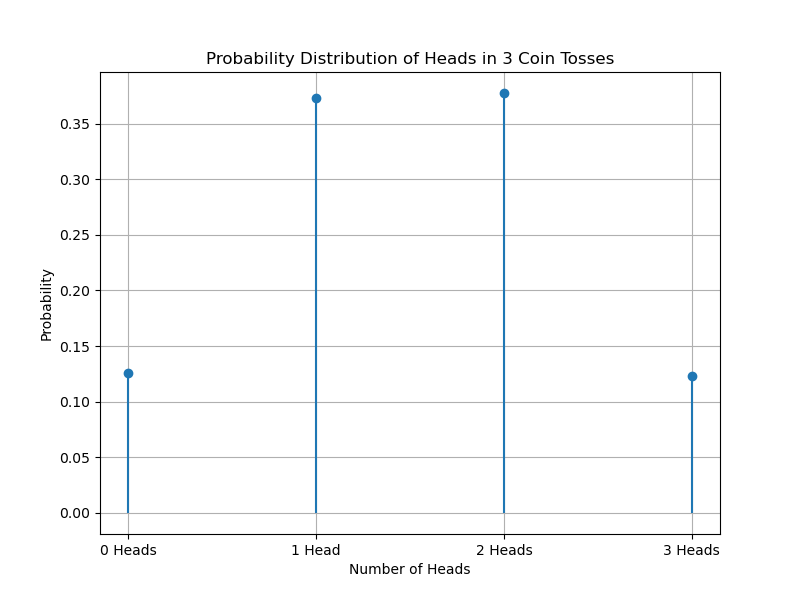
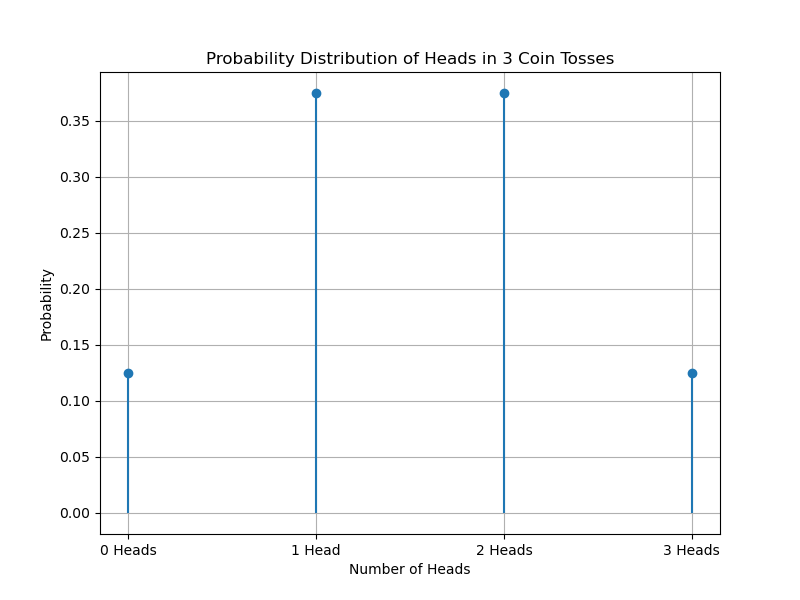
Changes

diff --git a/3.8.3/codes/main.c b/3.8.3/codes/main.c
@@ -1,64 +1,45 @@
 #include <stdio.h>
 #include <stdlib.h>
-#include <time.h>
+#include <math.h>
 
-// Function to simulate three coin tosses and compute probabilities
-void simulate_three_coin_toss(int n, double *probabilities, double *cdf) {
-    int outcomes[4] = {0}; // Counts for 0, 1, 2, 3 heads
+// Function to calculate PMF using Z-transform
+void calculate_pmf_z_transform(double *pmf) {
+    int n = 3; // Number of tosses
+    double p = 0.5; // Probability of heads for a fair coin
 
-    // Simulate the trials
-    for (int i = 0; i < n; i++) {
-        int head_count = 0;
-        for (int toss = 0; toss < 3; toss++) {
-            if (rand() % 2 == 1) { // Random 0 or 1; 1 represents head
-                head_count++;
-            }
+    // Compute coefficients of Z-transform: (p + (1-p)z)^n
+    // Z-transform expansion: (p + qz)^n = \sum_{k=0}^{n} C(n, k) * p^(n-k) * q^k * z^k
+    // PMF corresponds to the coefficients of z^k
+
+    for (int k = 0; k <= n; k++) {
+        // Calculate binomial coefficient C(n, k)
+        double binomial_coefficient = 1;
+        for (int i = 0; i < k; i++) {
+            binomial_coefficient *= (n - i) / (double)(i + 1);
         }
-        outcomes[head_count]++;
-    }
 
-    // Calculate probabilities
-    for (int i = 0; i < 4; i++) {
-        probabilities[i] = (double)outcomes[i] / n;
-    }
-
-    // Calculate CDF
-    cdf[0] = probabilities[0];
-    for (int i = 1; i < 4; i++) {
-        cdf[i] = cdf[i - 1] + probabilities[i];
+        // Compute PMF value for k heads using Z-transform
+        pmf[k] = binomial_coefficient * pow(p, k) * pow(1 - p, n - k);
     }
 }
 
-// Function exposed for external use (e.g., Python interface)
-__attribute__((visibility("default"))) __attribute__((used))
-void calculate_probabilities(int n, double *probabilities, double *cdf, double *prob_at_least_2_heads) {
-    srand(time(NULL)); // Seed the random number generator
-    simulate_three_coin_toss(n, probabilities, cdf);
-    
-    // Calculate probability of getting at least 2 heads
-    *prob_at_least_2_heads = probabilities[2] + probabilities[3];
+// Function to calculate the probability of getting at least 2 heads
+double probability_at_least_two_heads() {
+    int n = 3; // Number of tosses
+    double pmf[n + 1];
+
+    // Calculate PMF using Z-transform
+    calculate_pmf_z_transform(pmf);
+
+    // Sum probabilities for k >= 2 (2 or 3 heads)
+    double probability = pmf[2] + pmf[3];
+    return probability;
 }
 
-// Test function
+// Main function
 int main() {
-    int n = 100000; // Number of trials
-    double probabilities[4], cdf[4], prob_at_least_2_heads;
-
-    calculate_probabilities(n, probabilities, cdf, &prob_at_least_2_heads);
-
-    // Print results
-    printf("Probability Distribution:\n");
-    for (int i = 0; i < 4; i++) {
-        printf("P(%d heads) = %.5f\n", i, probabilities[i]);
-    }
-    
-    printf("\nCumulative Distribution Function (CDF):\n");
-    for (int i = 0; i < 4; i++) {
-        printf("F(%d heads) = %.5f\n", i, cdf[i]);
-    }
-
-    printf("\nProbability of getting at least 2 heads: %.5f\n", prob_at_least_2_heads);
-
+    double result = probability_at_least_two_heads();
+    printf("Probability of getting at least two heads: %.6f\n", result);
     return 0;
 }
 

diff --git a/3.8.3/codes/main.py b/3.8.3/codes/main.py
@@ -6,25 +6,21 @@ import matplotlib.pyplot as plt
 coin_toss = ctypes.CDLL('./main.so')
 
 # Set argument and return types for the C function
-coin_toss.calculate_probabilities.argtypes = [
-    ctypes.c_int,                   # int n (number of trials)
-    ctypes.POINTER(ctypes.c_double), # double* probabilities
-    ctypes.POINTER(ctypes.c_double), # double* cdf
-    ctypes.POINTER(ctypes.c_double)  # double* prob_at_least_2_heads
+coin_toss.calculate_pmf_z_transform.argtypes = [
+    ctypes.POINTER(ctypes.c_double)  # double* probabilities
 ]
 
-# Parameters
-num_trials = 100000
-probabilities = (ctypes.c_double * 4)()  # Array to store probabilities for 0, 1, 2, 3 heads
-cdf = (ctypes.c_double * 4)()            # Array to store cumulative distribution function
-prob_at_least_2_heads = ctypes.c_double()  # Variable to store the probability of at least 2 heads
+# Array to store probabilities for 0, 1, 2, 3 heads
+probabilities = (ctypes.c_double * 4)()
 
-# Call the C function
-coin_toss.calculate_probabilities(num_trials, probabilities, cdf, ctypes.byref(prob_at_least_2_heads))
+# Call the C function to compute PMF
+coin_toss.calculate_pmf_z_transform(probabilities)
 
-# Convert results to Python lists using NumPy for easier handling
+# Convert results to NumPy array for easier handling
 probabilities = np.array(list(probabilities))
-cdf = np.array(list(cdf))
+
+# Compute probability of getting at least 2 heads (sum of P(2) + P(3))
+prob_at_least_2_heads = probabilities[2] + probabilities[3]
 
 # Plotting the stem plot for probabilities
 outcomes = ['0 Heads', '1 Head', '2 Heads', '3 Heads']
@@ -37,5 +33,5 @@ plt.grid(True)
 plt.show()
 
 # Print the probability of getting at least 2 heads
-print(f'Probability of getting at least 2 heads: {prob_at_least_2_heads.value:.4f}')
+print(f'Probability of getting at least 2 heads: {prob_at_least_2_heads:.4f}')
 
